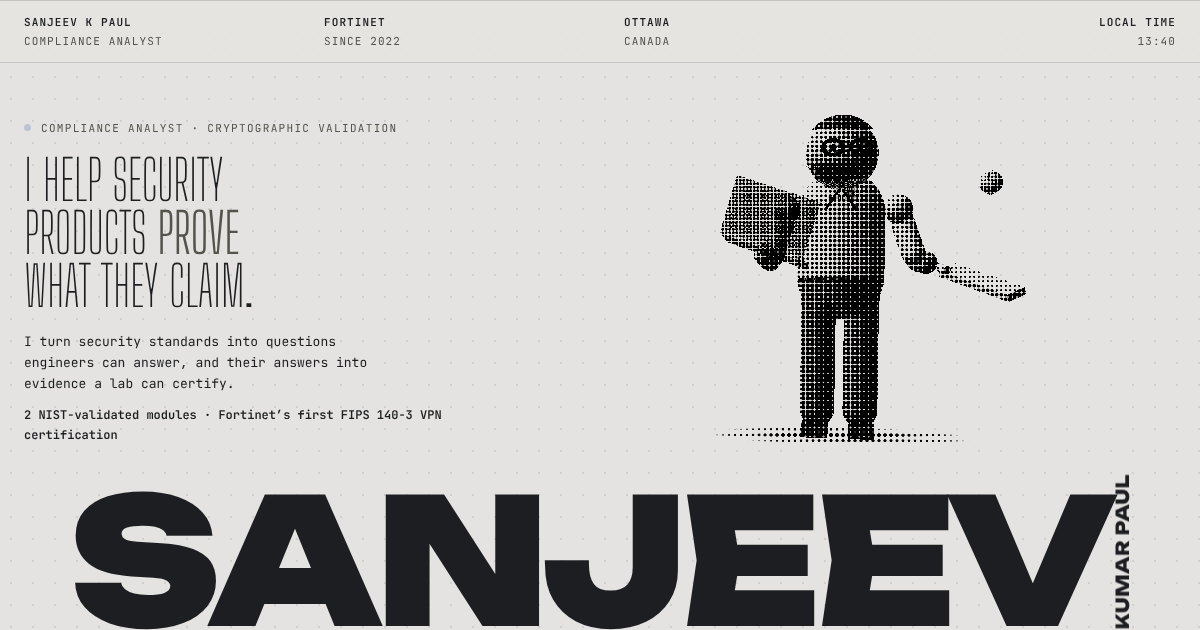
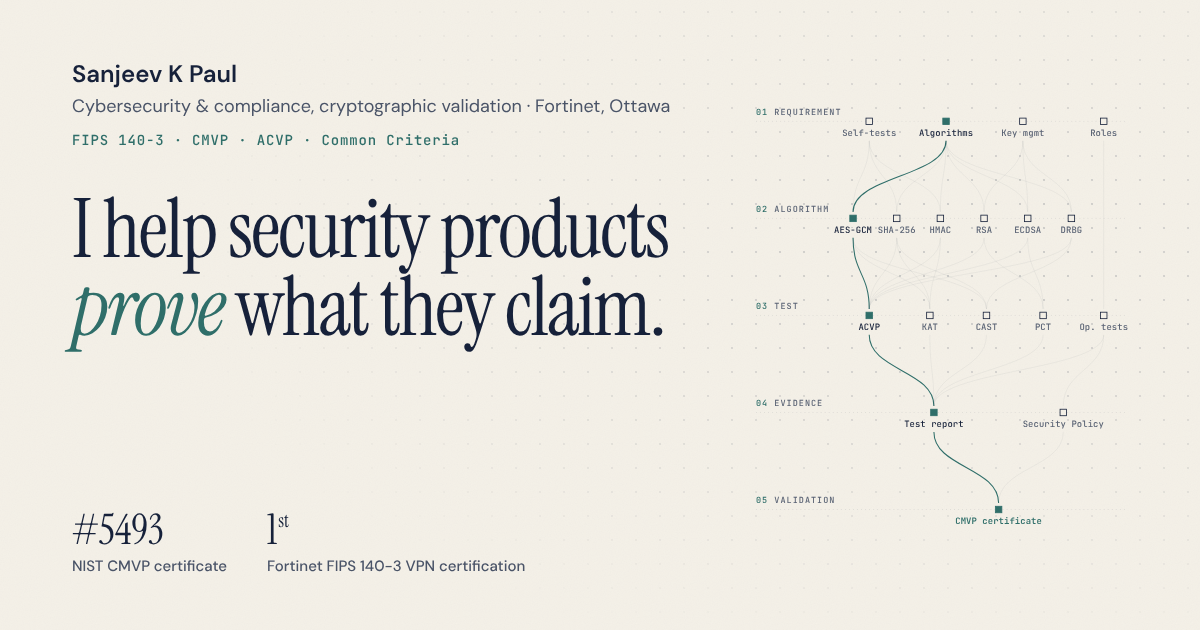
Recruiter-readable hero, new link preview, fix leaked markup
- Hero: role title replaced with 'Cybersecurity & compliance, cryptographic
  validation' (matches the résumé headline); keywords add TLS, SSH, X.509
- <title> and og:title updated to match
- New og.png in the current design (was an old halftone/cricketer render
  claiming '2 NIST-validated modules' and a local-time clock)
- Fix: nowrap span had leaked into <title> (visible in the tab) and broke
  the JSON-LD (invalid JSON)

Claude-Session: https://claude.ai/code/session_01PtuBR37jAFDgjf5voxmGHr

diff --git a/skp-portfolio/index.html b/skp-portfolio/index.html
@@ -5,7 +5,7 @@
   <meta name="viewport" content="width=device-width, initial-scale=1">
   <meta name="theme-color" content="#f5f1e8">
   <meta name="description" content="Sanjeev K Paul, Project Management Compliance Analyst at Fortinet in Ottawa. FIPS 140-3 cryptographic validation: NIST CMVP #5493, and Fortinet’s first FIPS 140-3 VPN certification.">
-  <meta property="og:title" content="Sanjeev K Paul — Compliance Analyst, FIPS 140-3 cryptographic validation">
+  <meta property="og:title" content="Sanjeev K Paul — Cybersecurity &amp; compliance, FIPS 140-3 cryptographic validation">
   <meta property="og:description" content="Cryptographic module validation at Fortinet, Ottawa. Selected work, projects, and contact.">
   <meta property="og:type" content="website">
   <meta property="og:url" content="https://snj3vpaul.vercel.app/">
@@ -14,7 +14,7 @@
   <meta property="og:image:height" content="630">
   <meta name="twitter:card" content="summary_large_image">
   <link rel="canonical" href="https://snj3vpaul.vercel.app/">
-  <title>Sanjeev K Paul — Project Management Compliance Analyst, <span class="nw">FIPS 140-3</span> · Fortinet, Ottawa</title>
+  <title>Sanjeev K Paul — Cybersecurity &amp; Compliance, FIPS 140-3 · Fortinet, Ottawa</title>
   <link rel="icon" href="favicon.svg" type="image/svg+xml">
   <link rel="preload" href="fonts/instrument-serif-latin-400-normal.woff2" as="font" type="font/woff2" crossorigin>
   <link rel="preload" href="fonts/dm-sans-latin-wght-normal.woff2" as="font" type="font/woff2" crossorigin>
@@ -29,7 +29,7 @@
     "worksFor": { "@type": "Organization", "name": "Fortinet" },
     "address": { "@type": "PostalAddress", "addressLocality": "Ottawa", "addressRegion": "ON", "addressCountry": "CA" },
     "alumniOf": { "@type": "CollegeOrUniversity", "name": "Concordia University" },
-    "knowsAbout": ["<span class="nw">FIPS 140-3</span>", "CMVP", "ACVP", "Common Criteria", "NDcPP", "NIST SP 800-140B", "TLS", "SSH", "X.509", "KVM"],
+    "knowsAbout": ["FIPS 140-3", "CMVP", "ACVP", "Common Criteria", "NDcPP", "NIST SP 800-140B", "TLS", "SSH", "X.509", "KVM"],
     "email": "mailto:sanjeevkumarpaul25@gmail.com",
     "url": "https://snj3vpaul.vercel.app/",
     "sameAs": ["https://www.linkedin.com/in/sanjeev-kumar-paul/", "https://github.com/snj3vpaul/", "https://medium.com/@sanjeevkumarpaul25"]
@@ -54,9 +54,9 @@
     <section class="hero" id="home" aria-labelledby="hero-title">
       <div class="wrap hero-grid">
         <p class="hero-title" data-enter>
-          <span class="hero-role-name">Project Management Compliance Analyst</span>
+          <span class="hero-role-name">Cybersecurity &amp; compliance, cryptographic validation</span>
           <span class="hero-role-area">Fortinet · Ottawa, Canada</span>
-          <span class="hero-keys"><span class="sr-only">Areas: </span><span class="nw">FIPS 140-3</span> · CMVP · ACVP · Common Criteria (NDcPP) · Product security certification</span>
+          <span class="hero-keys"><span class="sr-only">Areas: </span><span class="nw">FIPS 140-3</span> · CMVP · ACVP · Common Criteria (NDcPP) · TLS · SSH · X.509</span>
         </p>
         <h1 class="headline" id="hero-title">
           <span class="line"><span>I help security</span></span>
